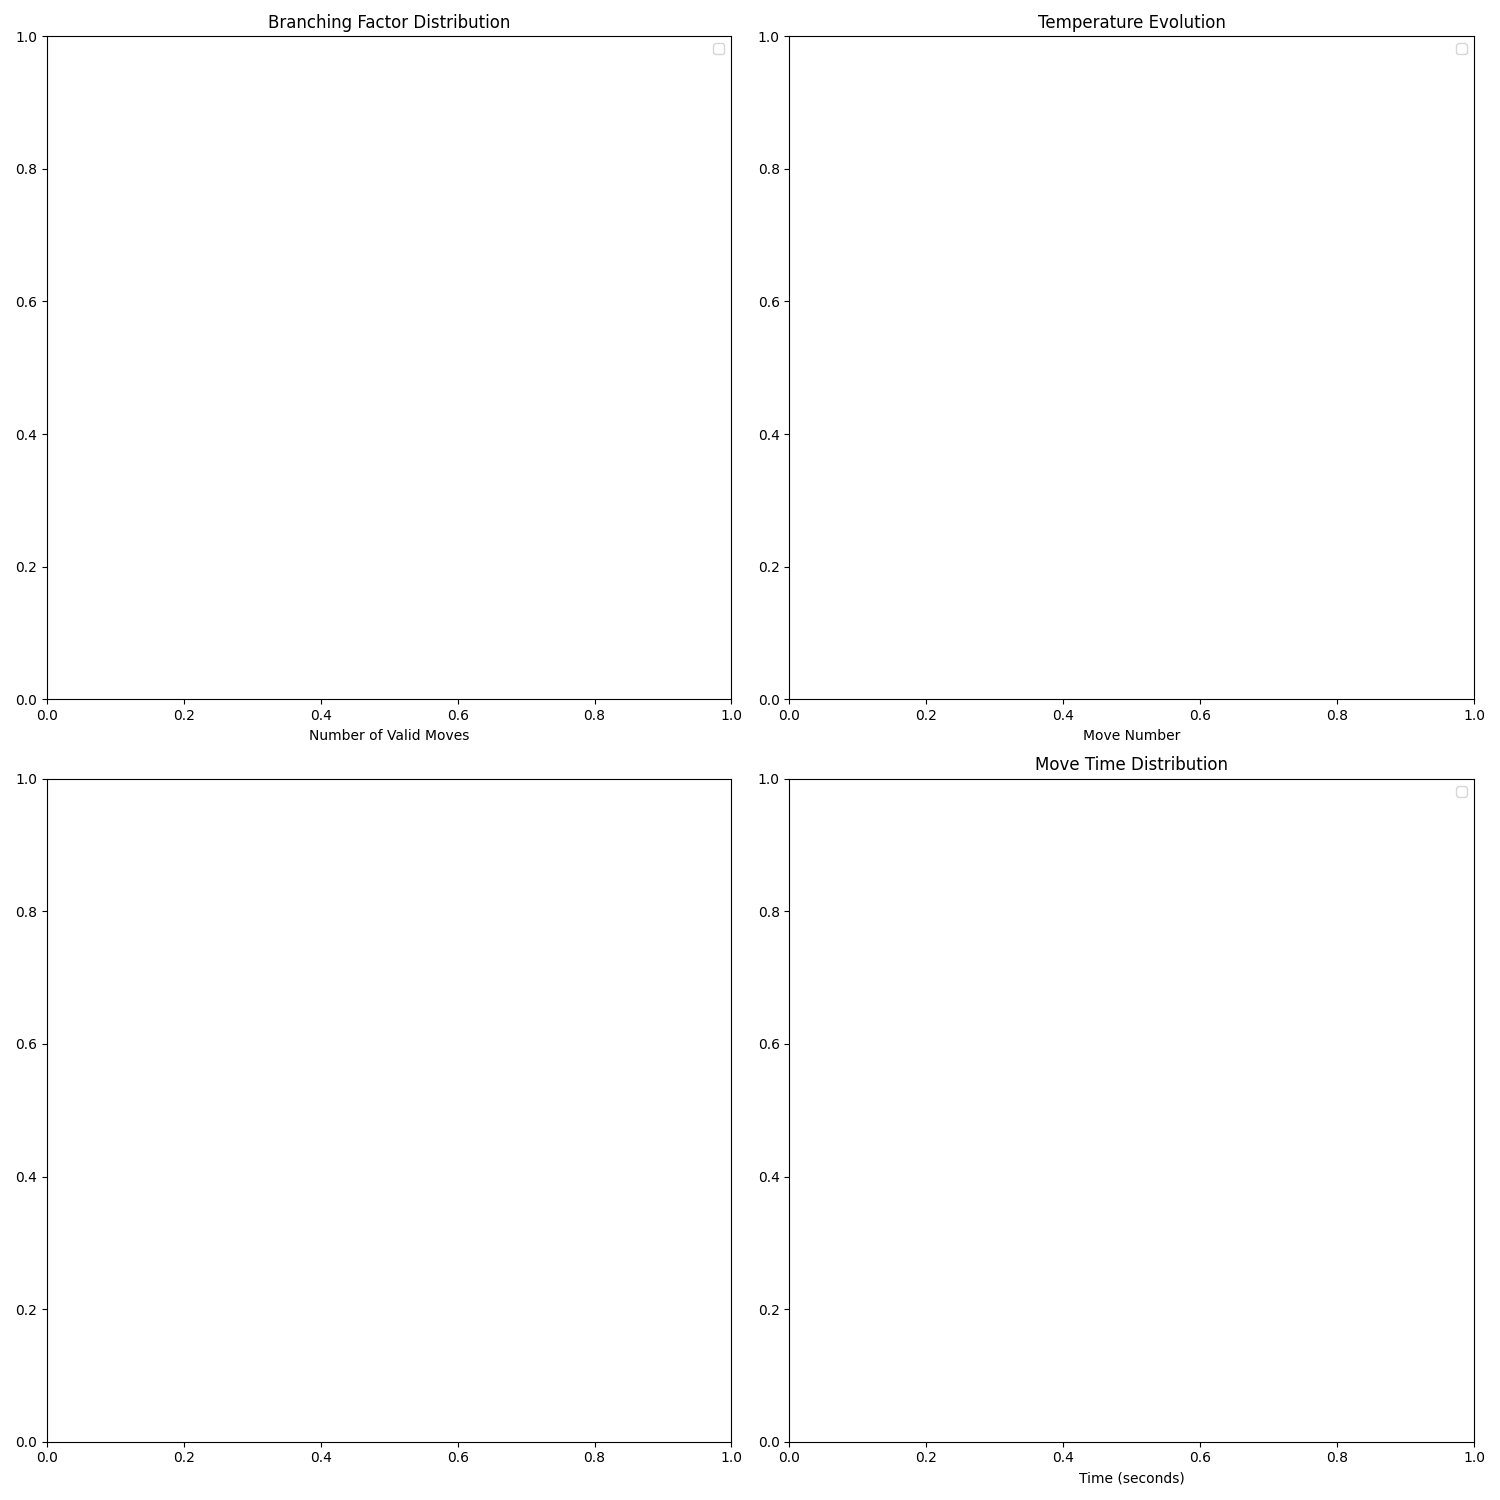
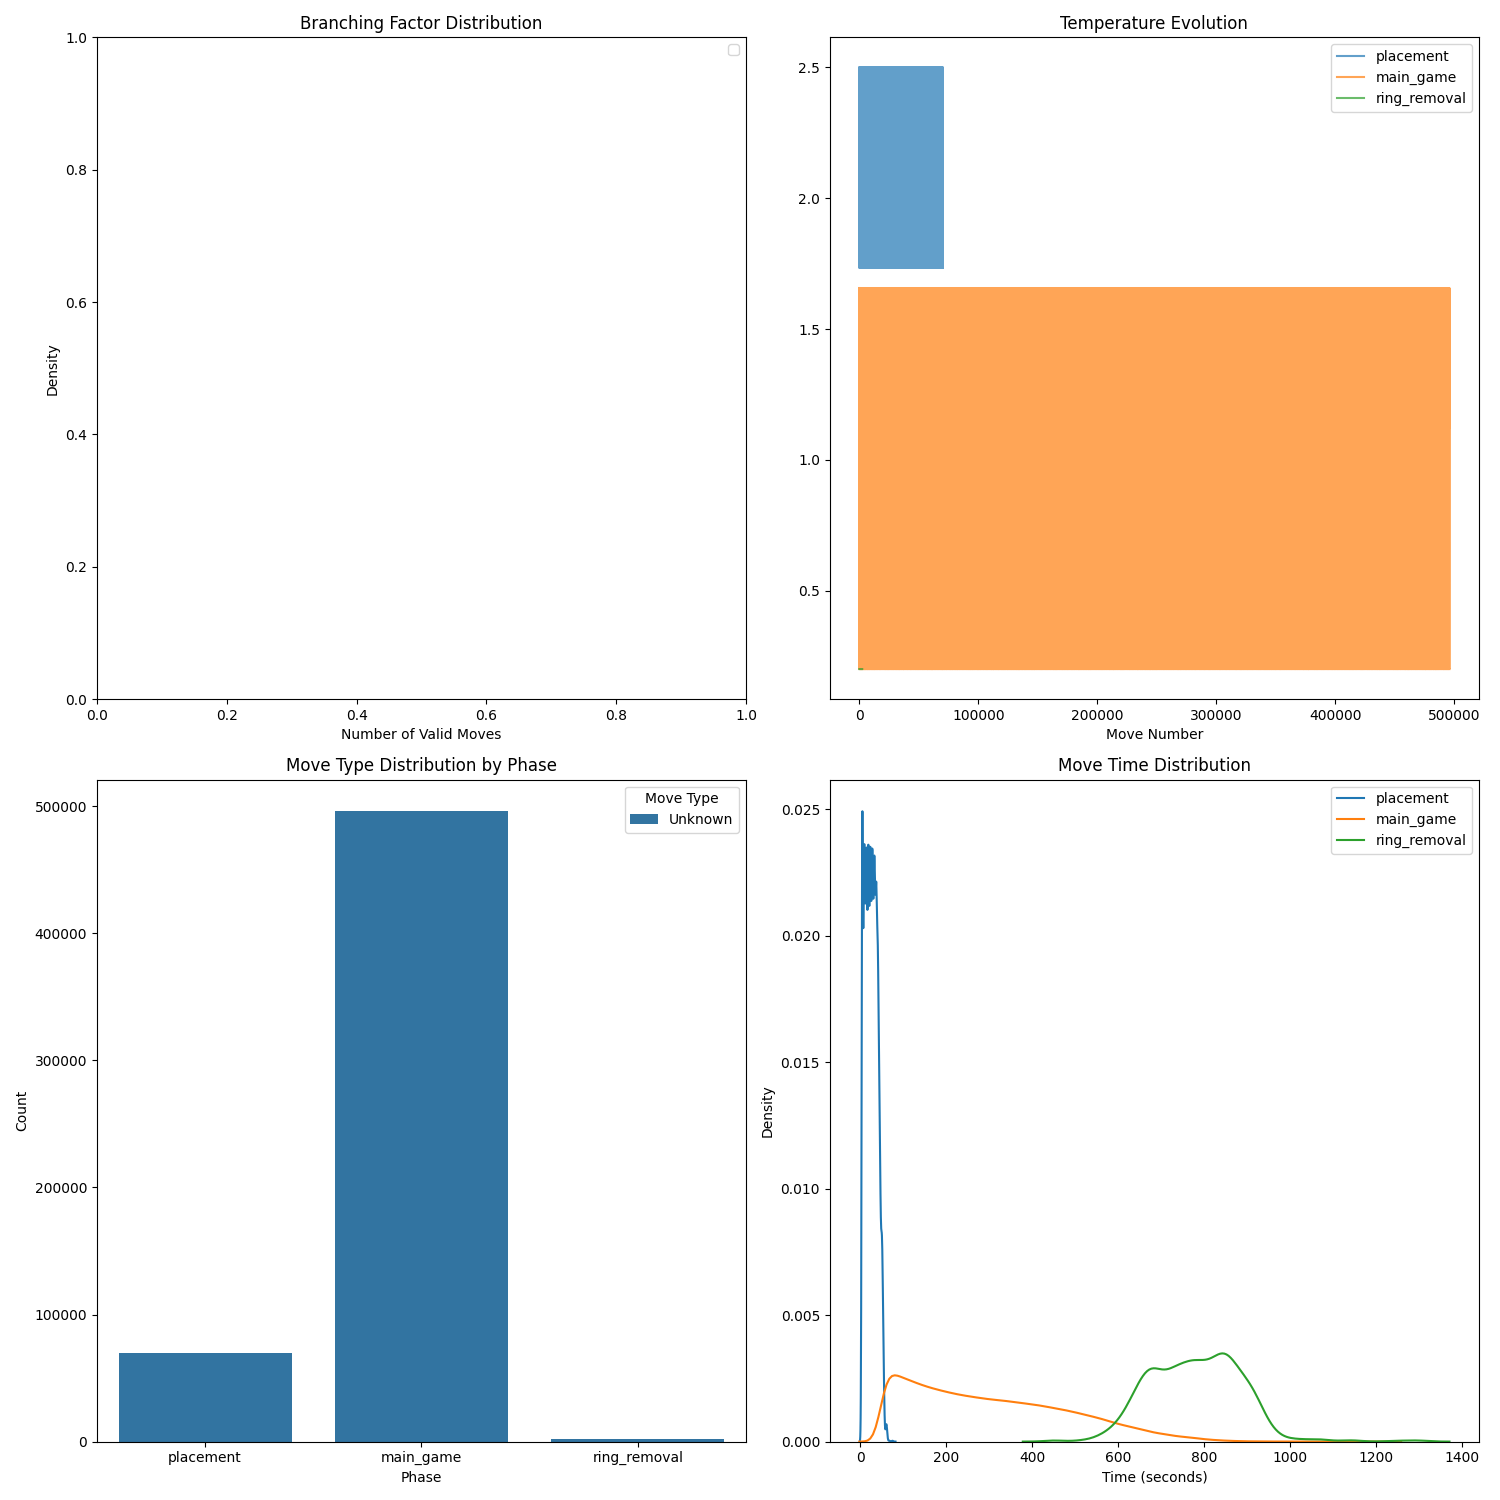
Add confidence-accuracy correlation and branching factor analysis
This update introduces confidence-accuracy correlation calculations and branching factor evaluations within the analysis workflow. Enhancements include new metrics for calibration error, timing data, ring removal timing, and color balance visualization, along with improved handling of plotting and data validation for edge cases.

diff --git a/analysis/adjustment_data_analyzer.py b/analysis/adjustment_data_analyzer.py
@@ -6,6 +6,8 @@ from typing import Dict, List, Tuple
 from collections import defaultdict
 import matplotlib.pyplot as plt
 import seaborn as sns
+from scipy.stats import pearsonr
+
 import argparse
 
 
@@ -29,7 +31,9 @@ class AdjustmentDataAnalyzer:
         analysis = {
             'phase_accuracy': defaultdict(list),
             'phase_confidence': defaultdict(list),
-            'value_flips': defaultdict(list)
+            'value_flips': defaultdict(list),
+            'confidence_accuracy_correlation': defaultdict(list),
+            'phase_performance': defaultdict(lambda: {'confidence': [], 'accuracy': [], 'calibration_error': []})
         }
 
         for iteration_data in metrics:
@@ -52,12 +56,29 @@ class AdjustmentDataAnalyzer:
                         10 if phase == 'main_game' else len(game['phase_values']['placement']) +
                                                         len(game['phase_values']['main_game']))
 
+                    confidence_values = []
                     for i, value in enumerate(values):
                         move_num = move_offset + i
                         if move_num < len(game['temperature_data']['move_stats']):
-                            analysis['phase_confidence'][phase].append(
+                            confidence_values.append(
                                 game['temperature_data']['move_stats'][move_num]['top_prob'])
 
+                    # Calculate and store confidence-accuracy correlation for each game/phase
+                    if len(confidence_values) >= 2:
+                        correlation, _ = pearsonr(confidence_values,
+                                                  [float(correct_prediction)] * len(confidence_values))
+                        analysis['confidence_accuracy_correlation'][phase].append(correlation)
+
+                    # Store accuracy and confidence values for calibration
+                    for i, value in enumerate(values):
+                        move_num = move_offset + i
+                        if move_num < len(game['temperature_data']['move_stats']):
+                            analysis['phase_performance'][phase]['confidence'].append(
+                                game['temperature_data']['move_stats'][move_num]['top_prob'])
+                            analysis['phase_performance'][phase]['accuracy'].append(float(correct_prediction))
+                            analysis['phase_performance'][phase]['calibration_error'].append(
+                                abs(float(correct_prediction) - game['temperature_data']['move_stats'][move_num][
+                                    'top_prob']))
         return analysis
 
     def plot_value_head_analysis(self, analysis: Dict):
@@ -65,28 +86,29 @@ class AdjustmentDataAnalyzer:
         fig, axes = plt.subplots(2, 2, figsize=(15, 15))
 
         # Plot 1: Confidence-Accuracy Correlation Over Time
-        for phase, correlations in analysis['confidence_accuracy_correlation'].items():
+        confidence_accuracy_correlation = analysis.get('confidence_accuracy_correlation', {})
+        for phase, correlations in confidence_accuracy_correlation.items():
             axes[0, 0].plot(correlations, label=phase)
         axes[0, 0].set_title('Confidence-Accuracy Correlation')
         axes[0, 0].set_ylabel('Correlation')
         axes[0, 0].legend()
 
         # Plot 2: Value Prediction Flips
-        for phase, flips in analysis['value_flips'].items():
+        for phase, flips in analysis.get('value_flips', {}).items():
             axes[0, 1].plot(flips, label=phase)
         axes[0, 1].set_title('Value Prediction Flips per Game')
         axes[0, 1].legend()
 
         # Plot 3: Calibration Error
-        for phase, data in analysis['phase_performance'].items():
-            axes[1, 0].plot(data['calibration_error'], label=phase)
+        for phase, data in analysis.get('phase_performance', {}).items():
+            axes[1, 0].plot(data.get('calibration_error', []), label=phase)
         axes[1, 0].set_title('Calibration Error by Phase')
         axes[1, 0].set_ylabel('|Accuracy - Confidence|')
         axes[1, 0].legend()
 
         # Plot 4: Accuracy vs Confidence Scatter
-        for phase, data in analysis['phase_performance'].items():
-            axes[1, 1].scatter(data['confidence'], data['accuracy'],
+        for phase, data in analysis.get('phase_performance', {}).items():
+            axes[1, 1].scatter(data.get('confidence', []), data.get('accuracy', []),
                                label=phase, alpha=0.5)
         axes[1, 1].plot([0, 1], [0, 1], 'k--', alpha=0.3)  # Perfect calibration line
         axes[1, 1].set_title('Accuracy vs Confidence')
@@ -119,7 +141,10 @@ class AdjustmentDataAnalyzer:
         analysis = {
             'move_temps': defaultdict(list),
             'move_entropies': defaultdict(list),
-            'move_times': defaultdict(list)
+            'move_times': defaultdict(list),
+            'branching_factors': defaultdict(list),
+            'move_selection': defaultdict(lambda: defaultdict(int)),
+            'timing': defaultdict(list)
         }
 
         for iteration_data in metrics:
@@ -131,6 +156,17 @@ class AdjustmentDataAnalyzer:
                     analysis['move_entropies'][phase].append(move_stat['entropy'])
                     analysis['move_times'][phase].append(move_stat['move_time'])
 
+                    # Check if valid_moves exists, default branching factor to 0 if not
+                    if 'valid_moves' in move_stat:
+                        analysis['branching_factors'][phase].append(len(move_stat['valid_moves']))
+                    else:
+                        analysis['branching_factors'][phase].append(0)
+
+                    analysis['timing'][phase].append(move_stat['move_time'])
+
+                    move_type = move_stat.get('move_type', 'Unknown')
+                    analysis['move_selection'][phase][move_type] += 1
+
         return analysis
 
     def _calculate_move_selection_summary(self, analysis: Dict) -> Dict:
@@ -139,14 +175,14 @@ class AdjustmentDataAnalyzer:
 
         for phase in analysis['branching_factors']:
             bf_data = analysis['branching_factors'][phase]
-            temp_data = analysis['move_temperatures'][phase]
+            temp_data = analysis['move_temps'][phase]
             time_data = analysis['timing'][phase]
 
             summary[phase] = {
-                'avg_branching_factor': np.mean(bf_data),
-                'max_branching_factor': np.max(bf_data),
-                'avg_temperature': np.mean(temp_data),
-                'avg_move_time': np.mean(time_data),
+                'avg_branching_factor': int(np.mean(bf_data)),
+                'max_branching_factor': int(np.max(bf_data)),
+                'avg_temperature': float(np.mean(temp_data)),
+                'avg_move_time': float(np.mean(time_data)),
                 'move_type_distribution': dict(analysis['move_selection'][phase])
             }
 
@@ -165,8 +201,8 @@ class AdjustmentDataAnalyzer:
         axes[0, 0].legend()
 
         # Plot 2: Temperature Evolution
-        for phase in analysis['move_temperatures']:
-            axes[0, 1].plot(analysis['move_temperatures'][phase],
+        for phase in analysis['move_temps']:
+            axes[0, 1].plot(analysis['move_temps'][phase],
                             label=phase, alpha=0.7)
         axes[0, 1].set_title('Temperature Evolution')
         axes[0, 1].set_xlabel('Move Number')
@@ -237,7 +273,8 @@ class AdjustmentDataAnalyzer:
         analysis = {
             'game_lengths': [],
             'win_conditions': {'markers': 0, 'rings': 0},
-            'color_balance': {'white_wins': 0, 'black_wins': 0}
+            'color_balance': {'white_wins': 0, 'black_wins': 0},
+            'ring_removal_timing': []
         }
 
         for iteration_data in metrics:
@@ -246,8 +283,13 @@ class AdjustmentDataAnalyzer:
                 analysis['game_lengths'].append(game['length'])
 
                 # Win condition (inferring from final phase values)
-                if game['phase_values'].get('ring_removal'):
+                if 'ring_removal' in game['phase_values']:
                     analysis['win_conditions']['rings'] += 1
+
+                    # Calculate timing of ring removals
+                    if game['phase_values'].get('ring_removal') is not None:
+                        analysis['ring_removal_timing'].append(
+                            len(game['phase_values']['placement']) + len(game['phase_values']['main_game']))
                 else:
                     analysis['win_conditions']['markers'] += 1
 
@@ -313,24 +355,42 @@ class AdjustmentDataAnalyzer:
         axes[0, 1].set_ylabel('Percentage of Games')
 
         # Plot 3: Color Balance Over Time
-        color_data = pd.DataFrame(analysis['color_balance'])
-        color_data['ratio'] = color_data['white_wins'] / (color_data['white_wins'] + color_data['black_wins'])
-        axes[1, 0].plot(color_data['ratio'])
-        axes[1, 0].axhline(0.5, color='r', linestyle='--', label='Perfect Balance')
-        axes[1, 0].set_title('Color Balance')
-        axes[1, 0].set_ylabel('White Win Rate')
-        axes[1, 0].legend()
+        color_balance = analysis['color_balance']
+        total_wins = color_balance['white_wins'] + color_balance['black_wins']
+
+        if total_wins > 0:
+            white_win_ratio = color_balance['white_wins'] / total_wins
+            axes[1, 0].axhline(white_win_ratio, color='b', label=f"White Win Ratio: {white_win_ratio:.2f}")
+            axes[1, 0].axhline(0.5, color='r', linestyle='--', label='Perfect Balance')
+            axes[1, 0].set_title('Color Balance')
+            axes[1, 0].set_ylabel('White Win Rate')
+            axes[1, 0].legend()
+        else:
+            axes[1, 0].set_title('Color Balance (No Wins Yet)')
 
         # Plot 4: Ring Removal Timing
-        sns.histplot(data=analysis['ring_removal_timing'], ax=axes[1, 1])
-        axes[1, 1].axvline(summary['ring_removal_timing']['mean'], color='r',
-                           linestyle='--', label='Mean Timing')
-        axes[1, 1].set_title('Ring Removal Timing Distribution')
-        axes[1, 1].set_xlabel('Move Number')
-        axes[1, 1].legend()
+        if 'ring_removal_timing' in analysis and summary.get('ring_removal_timing'):
+            sns.histplot(data=analysis['ring_removal_timing'], ax=axes[1, 1])
+            axes[1, 1].axvline(summary['ring_removal_timing']['mean'], color='r',
+                               linestyle='--', label='Mean Timing')
+            axes[1, 1].set_title('Ring Removal Timing Distribution')
+            axes[1, 1].set_xlabel('Move Number')
+            axes[1, 1].legend()
+        else:
+            axes[1, 1].set_title('Ring Removal Timing Distribution (No Data)')
 
         plt.tight_layout()
         return fig
+
+    def _determine_phase(self, move_number: int) -> str:
+        """Determine phase of the game based on move number."""
+        if move_number <= 10:
+            return 'placement'
+        elif move_number <= 100:  # assuming max of 90 main game moves
+            return 'main_game'
+        else:
+            return 'ring_removal'
+
 
 def main():
     parser = argparse.ArgumentParser(description='Analyze YINSH training data for adjustments')
@@ -356,7 +416,8 @@ def main():
     value_fig.savefig(args.output_dir / 'value_head_analysis.png')
 
     print("\nAnalyzing Move Selection Patterns...")
-    move_analysis, move_summary = analyzer.analyze_move_selection_patterns()
+    move_analysis = analyzer.analyze_move_selection_patterns()
+    move_summary = analyzer._calculate_move_selection_summary(move_analysis)
     move_fig = analyzer.plot_move_selection_analysis(move_analysis, move_summary)
     move_fig.savefig(args.output_dir / 'move_selection_analysis.png')
 
@@ -389,6 +450,7 @@ def main():
             f.write(f"{i}. {rec}\n")
 
     print(f"\nAnalysis complete. Results saved to {args.output_dir}")
+
 
 if __name__ == "__main__":
     main()
